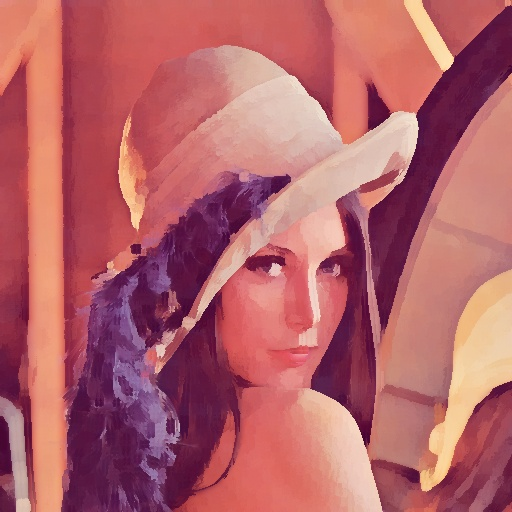
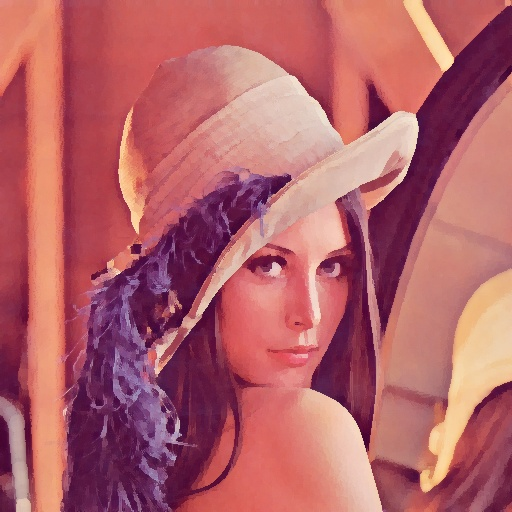
Add Morskie Oko, fix for rectangular images, add error handling

diff --git a/src/main.cpp b/src/main.cpp
@@ -1,8 +1,10 @@
 #include <algorithm>
 #include <array>
+#include <cassert>
 #include <cmath>
 #include <cstdint>
 #include <cstdio>
+#include <cstdlib>
 #include <iostream>
 #include <list>
 #include <opencv2/core/cvdef.h>
@@ -32,10 +34,14 @@ constexpr const double WINDOW_SIZE = 9.0;
 
 bool pixelInBounds(const cv::Mat& image, int x, int y)
 {
-    return x >= 0 && x < image.size().width && y >= 0 && y < image.size().height;
+    return x >= 0 && x < image.size().height && y >= 0 && y < image.size().width;
 }
 
-enum Quadrant { TOP_LEFT, TOP_RIGHT, BOTTOM_LEFT, BOTTOM_RIGHT, NONE = -1 };
+enum Quadrant { TOP_LEFT,
+    TOP_RIGHT,
+    BOTTOM_LEFT,
+    BOTTOM_RIGHT,
+    NONE = -1 };
 
 struct QuadrantResult {
     Quadrant q1;
@@ -94,6 +100,7 @@ QuadrantResult checkQuadrant(int i, int j)
     }
 
     // should never happen, we ignore the central pixel
+    print("Error: Pixel belongs to no quadrant");
     return { NONE, NONE };
 }
 
@@ -122,7 +129,7 @@ double standardDeviation(const std::vector<BGRPixel>& values)
 {
     double sum = 0.0;
     double variance = 0.0;
-    
+
     for (int i = 0; i < values.size(); i++) {
         sum += values[i].pixel.luminosity;
     }
@@ -144,23 +151,23 @@ double luminosity(const Pixel& pixel)
 /// convert the image to black and white
 void kuwahara(cv::Mat& image, cv::Mat& outputImage)
 {
-    const int height = image.size().height;
-    const int width = image.size().width;
-    
     const int quadrantSize = ceil(WINDOW_SIZE / 2.0);
     auto quadrants = std::array<std::vector<BGRPixel>, 4>();
+    quadrants.fill(std::vector<BGRPixel>());
 
-    for (int x = 0; x < width; x++) {
-        for (int y = 0; y < height; y++) {
+    for (int x = 0; x < image.size().height; x++) {
+        for (int y = 0; y < image.size().width; y++) {
             auto& pixel = image.at<Pixel>(x, y);
-            // loop through the entire window around this pixel
-            // https://en.wikipedia.org/wiki/Kuwahara_filter#/media/File:Kuwahara.jpg
+            
+            //loop through the entire window around this pixel
+            //https://en.wikipedia.org/wiki/Kuwahara_filter#/media/File:Kuwahara.jpg
 
             // clear all quadrants
             for (auto& quadrant : quadrants) {
                 quadrant.clear();
             }
 
+            // print("Checking quadrants for pixel at ", x, y);
             for (int i = -quadrantSize + 1; i < quadrantSize; i++) {
                 for (int j = -quadrantSize + 1; j < quadrantSize; j++) {
                     // check if the pixel is within the bounds of the image
@@ -171,47 +178,56 @@ void kuwahara(cv::Mat& image, cv::Mat& outputImage)
                     if (i == 0 && j == 0) {
                         continue;
                     }
-
                     auto& neighbourPixel = image.at<Pixel>(pixelX, pixelY);
 
                     // calculate luminosity of the rbg pixel to avod the problem described in
                     // https://en.wikipedia.org/wiki/Kuwahara_filter#Color_images
                     auto pixelLuminosity = static_cast<uchar>(luminosity(neighbourPixel));
-                    BGRPixel bgrPixel = { neighbourPixel[0], neighbourPixel[1], neighbourPixel[2], pixelLuminosity };
-
+                    BGRPixel bgrPixel = { static_cast<uchar>(neighbourPixel[0]), static_cast<uchar>(neighbourPixel[1]), static_cast<uchar>(neighbourPixel[2]), pixelLuminosity };
                     // check which quadrants the pixel belongs to
                     auto quadrantResult = checkQuadrant(i, j);
 
                     // add the pixel to our lists
                     quadrants[quadrantResult.q1].push_back(bgrPixel);
-
                     // if the pixel belongs to two quadrants, add it to the second quadrant
                     if (quadrantResult.q2 != NONE) {
                         quadrants[quadrantResult.q2].push_back(bgrPixel);
                     }
                 }
-                
-                // after checking all quadrants, calculcate the standard deviations
-                int minIdx = 0;
-                double minStdDev = 256.0;
-                for (int i = 0; i < 4; i++) {
-                    double currStdDev = standardDeviation(quadrants[i]);
-                    if (currStdDev < minStdDev) { // new minimum
-                        minStdDev = currStdDev;
-                        minIdx = i;
-                    }
-                }
+            }
 
-                // calculate the average of the BGR pixels in the minimum standard deviation quadrant
-                for (int channel = 0; channel < 3; channel++) {
-                    double sum = 0;
-                    for (const auto &value : quadrants[minIdx]) {
-                        sum += value.data[channel];
-                    }
-                    double average = sum / quadrants[minIdx].size();
-                    // set the pixel value to the average RGB of the quadrant
-                    outputImage.at<Pixel>(x, y)[channel] = static_cast<uchar>(average);
+            // after checking all quadrants, calculcate the standard deviations
+            int minIdx = -1;
+            double minStdDev = 255;
+
+            for (auto& quadrant : quadrants) {
+                if (quadrant.empty()) {
+                    continue;
                 }
+                double currStdDev = standardDeviation(quadrant);
+                if (currStdDev < minStdDev) { // new minimum
+                    minStdDev = currStdDev;
+                    minIdx = &quadrant - &quadrants[0];
+                }
+            }
+            if (minIdx == -1) {
+                print("Error: No minimum standard deviation found");
+                exit(1);
+            }
+
+            // calculate the average of the BGR pixels in the minimum standard
+            // deviation quadrant
+            auto& outputPixel = outputImage.at<Pixel>(x, y);
+
+            for (int channel = 0; channel < 3; channel++) {
+                double sum = 0;
+                for (const auto &value : quadrants[minIdx]) {
+                    sum += value.data[channel];
+                }
+                double average = sum / quadrants[minIdx].size();
+                
+                // set the pixel value to the average RGB of the quadrant
+                outputPixel[channel] = static_cast<uchar>(average);
             }
         }
     }
@@ -230,10 +246,9 @@ int main(int argc, char** argv)
         return -1;
     }
 
-    auto outputImage = bgrImage.clone();
+    auto outputImage = cv::Mat(bgrImage.size(), bgrImage.type());
 
     kuwahara(bgrImage, outputImage);
-    print("Done");
 
     cv::imwrite(outputPath, outputImage);
 

diff --git a/README.md b/README.md
@@ -31,6 +31,15 @@ Bottom row: 5, 9, 13, 17
   <img src="img/lena17.jpg" width="200" />
 </p>
 
+<p align="middle">
+  <img src="img/morskieOko.jpg" width="200" />
+  <br>
+  <img src="img/morskieOko5.jpg" width="200" />
+  <img src="img/morskieOko9.jpg" width="200" />
+  <img src="img/morskieOko13.jpg" width="200" />
+  <img src="img/morskieOko17.jpg" width="200" />
+</p>
+
 # Measurements
 **TODO**
 
